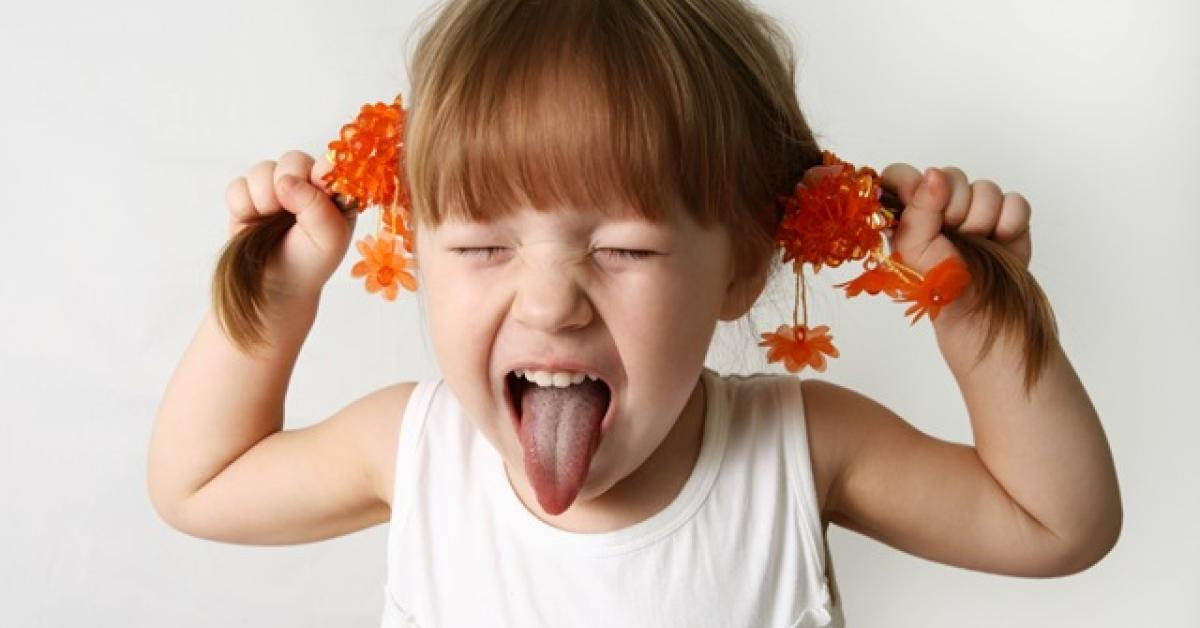
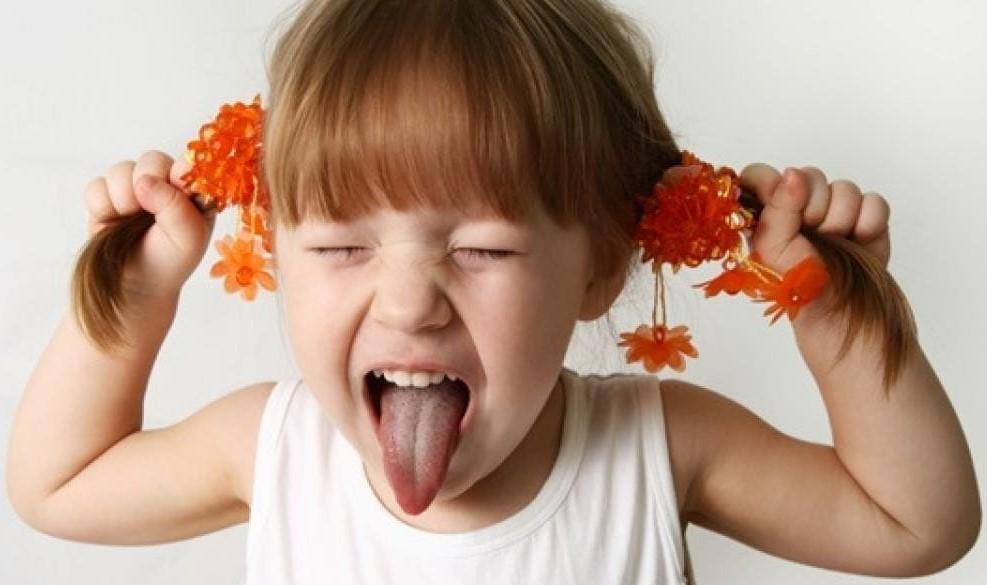
imagenes comprimidas y metatags actualizados

diff --git a/index.html b/index.html
@@ -5,6 +5,27 @@
     <meta name="viewport" content="width=device-width, initial-scale=1.0" />
     <meta name="description" content="Transformarte Equino ofrece equinoterapia para personas en condición de autismo y otros trastornos psicológicos, utilizando la interacción con nuestros caballos como herramienta terapéutica.">
     <meta name="keywords" content="Equinoterapia, caballo, equinos, Tranformar, Arte, Autismo">
+    <!--metatags   .io-->
+    <!-- Primary Meta Tags -->
+    <title>Transformarte equino</title>
+    <meta name="title" content="Transformarte equino" />
+    <meta name="description" content="Transformarte Equino ofrece equinoterapia para personas en condición de autismo y otros trastornos psicológicos, utilizando la interacción con nuestros caballos como herramienta terapéutica." />
+
+    <!-- Open Graph / Facebook -->
+    <meta property="og:type" content="website" />
+    <meta property="og:url" content="https://github.com/DanielRM1091/tercerentrega" />
+    <meta property="og:title" content="Transformarte equino" />
+    <meta property="og:description" content="Transformarte Equino ofrece equinoterapia para personas en condición de autismo y otros trastornos psicológicos, utilizando la interacción con nuestros caballos como herramienta terapéutica." />
+    <meta property="og:image" content="./Imagenes/img1.jpg" />
+
+    <!-- Twitter -->
+    <meta property="twitter:card" content="summary_large_image" />
+    <meta property="twitter:url" content="https://github.com/DanielRM1091/tercerentrega" />
+    <meta property="twitter:title" content="Transformarte equino" />
+    <meta property="twitter:description" content="Transformarte Equino ofrece equinoterapia para personas en condición de autismo y otros trastornos psicológicos, utilizando la interacción con nuestros caballos como herramienta terapéutica." />
+    <meta property="twitter:image" content="./Imagenes/img1.jpg" />
+
+<!-- Meta Tags Generated with https://metatags.io -->
     <!-- link a bootstrap-->
     <link
       href="https://cdn.jsdelivr.net/npm/bootstrap@5.3.3/dist/css/bootstrap.min.css"
